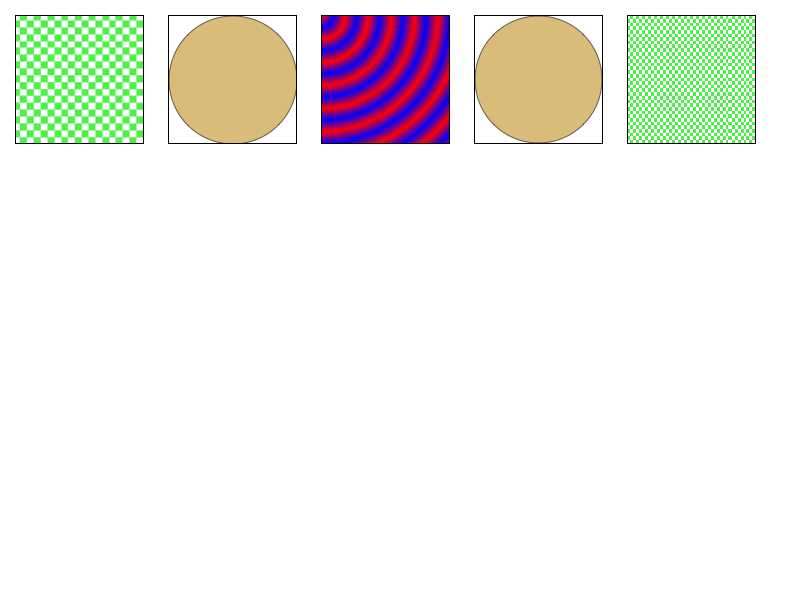
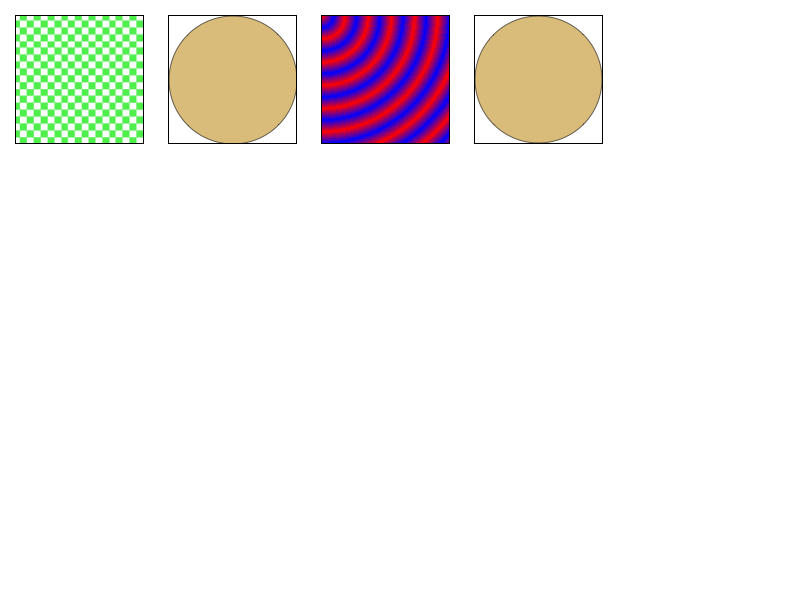
2011-11-08  Nikolas Zimmermann  <nzimmermann@rim.com>
[Qt] 4 new tests fail introduced in r98852
        https://bugs.webkit.org/show_bug.cgi?id=71253

        Reviewed by Rob Buis.

        Address some problems seen on Qt/Chromium:
        - Remove the scaled png which is the source of the problem in zoom-background-images.html, we really only want to test zooming in the SVGImage there.
        - Don't zoom out more than three times, otherwise its ignored on Mac/DRT, where the minimum zoom factor is clamped to 0.5f.
          Qt doesn't have this limit, and currently zooms more than Mac does. There's no need to zoom out that often, three times is enough.

        * platform/mac/svg/zoom/page/zoom-background-images-expected.png: Updated.
        * platform/mac/svg/zoom/page/zoom-background-images-expected.txt: Update.
        * svg/zoom/page/zoom-background-image-tiled.html: Don't set shouldZoomOut to false, it's the default.
        * svg/zoom/page/zoom-background-images.html: Don't zoom out more than three times.
        * svg/zoom/page/zoom-replaced-intrinsic-ratio-001.htm: Ditto.
        * svg/zoom/page/zoom-svg-as-background-with-relative-size.html: Ditto.
        * svg/zoom/page/zoom-svg-as-image.html: There is no shouldZoomIn, just remove it, zooming in is the default.

git-svn-id: http://svn.webkit.org/repository/webkit/trunk/LayoutTests@99566 268f45cc-cd09-0410-ab3c-d52691b4dbfc

Changed region(s): [[0.7812, 0.0, 0.9688, 0.24]]

diff --git a/svg/zoom/page/zoom-replaced-intrinsic-ratio-001.htm b/svg/zoom/page/zoom-replaced-intrinsic-ratio-001.htm
@@ -40,7 +40,7 @@
   <table id="t5"><tr><td><object id="img5" type="image/svg+xml" data="resources/intrinsic-ratio.svg">This test won't work because you do not have images enabled.</object></td></tr></table>
   <p id="p3"><object id="img3" type="image/svg+xml" data="resources/intrinsic-ratio.svg">This test won't work because you do not have images enabled.</object></p>
 
-  <script>var zoomCount = 4; window.shouldZoomOut = true;</script>
+  <script>var zoomCount = 3; window.shouldZoomOut = true;</script>
   <script src="../resources/testPageZoom.js"></script>
  </body>
 </html>

diff --git a/svg/zoom/page/zoom-background-images.html b/svg/zoom/page/zoom-background-images.html
@@ -31,9 +31,8 @@
 <div class="svg"></div>
 <div class="gradient"></div>
 <img src="resources/circle.svg"></img>
-<img src="../../custom/resources/green-checker.png"></img>
 
-<script>var zoomCount = 5; window.shouldZoomOut = true;</script>
+<script>var zoomCount = 3; window.shouldZoomOut = true;</script>
 <script src="../resources/testPageZoom.js"></script>
 
 </body>

diff --git a/svg/zoom/page/zoom-svg-as-background-with-relative-size.html b/svg/zoom/page/zoom-svg-as-background-with-relative-size.html
@@ -14,7 +14,7 @@ div {
 <body style='margin: 0px'>
 <div>&nbsp;</div>
 
-<script>var zoomCount = 4; window.shouldZoomOut = true;</script>
+<script>var zoomCount = 3; window.shouldZoomOut = true;</script>
 <script src="../resources/testPageZoom.js"></script>
 </body>
 </html>

diff --git a/svg/zoom/page/zoom-svg-as-image.html b/svg/zoom/page/zoom-svg-as-image.html
@@ -13,7 +13,7 @@ div {
   <img src='../../as-image/resources/green-fixed-size-rect.svg'>
 </div>
 
-<script>var zoomCount = 4; window.shouldZoomIn = true;</script>
+<script>var zoomCount = 4;</script>
 <script src="../resources/testPageZoom.js"></script>
 
 </body>

diff --git a/svg/zoom/page/zoom-background-image-tiled.html b/svg/zoom/page/zoom-background-image-tiled.html
@@ -17,7 +17,7 @@
 <body>
 <div></div>
 
-<script>var zoomCount = 4; window.shouldZoomOut = false;</script>
+<script>var zoomCount = 4;</script>
 <script src="../resources/testPageZoom.js"></script>
 
 </body>
